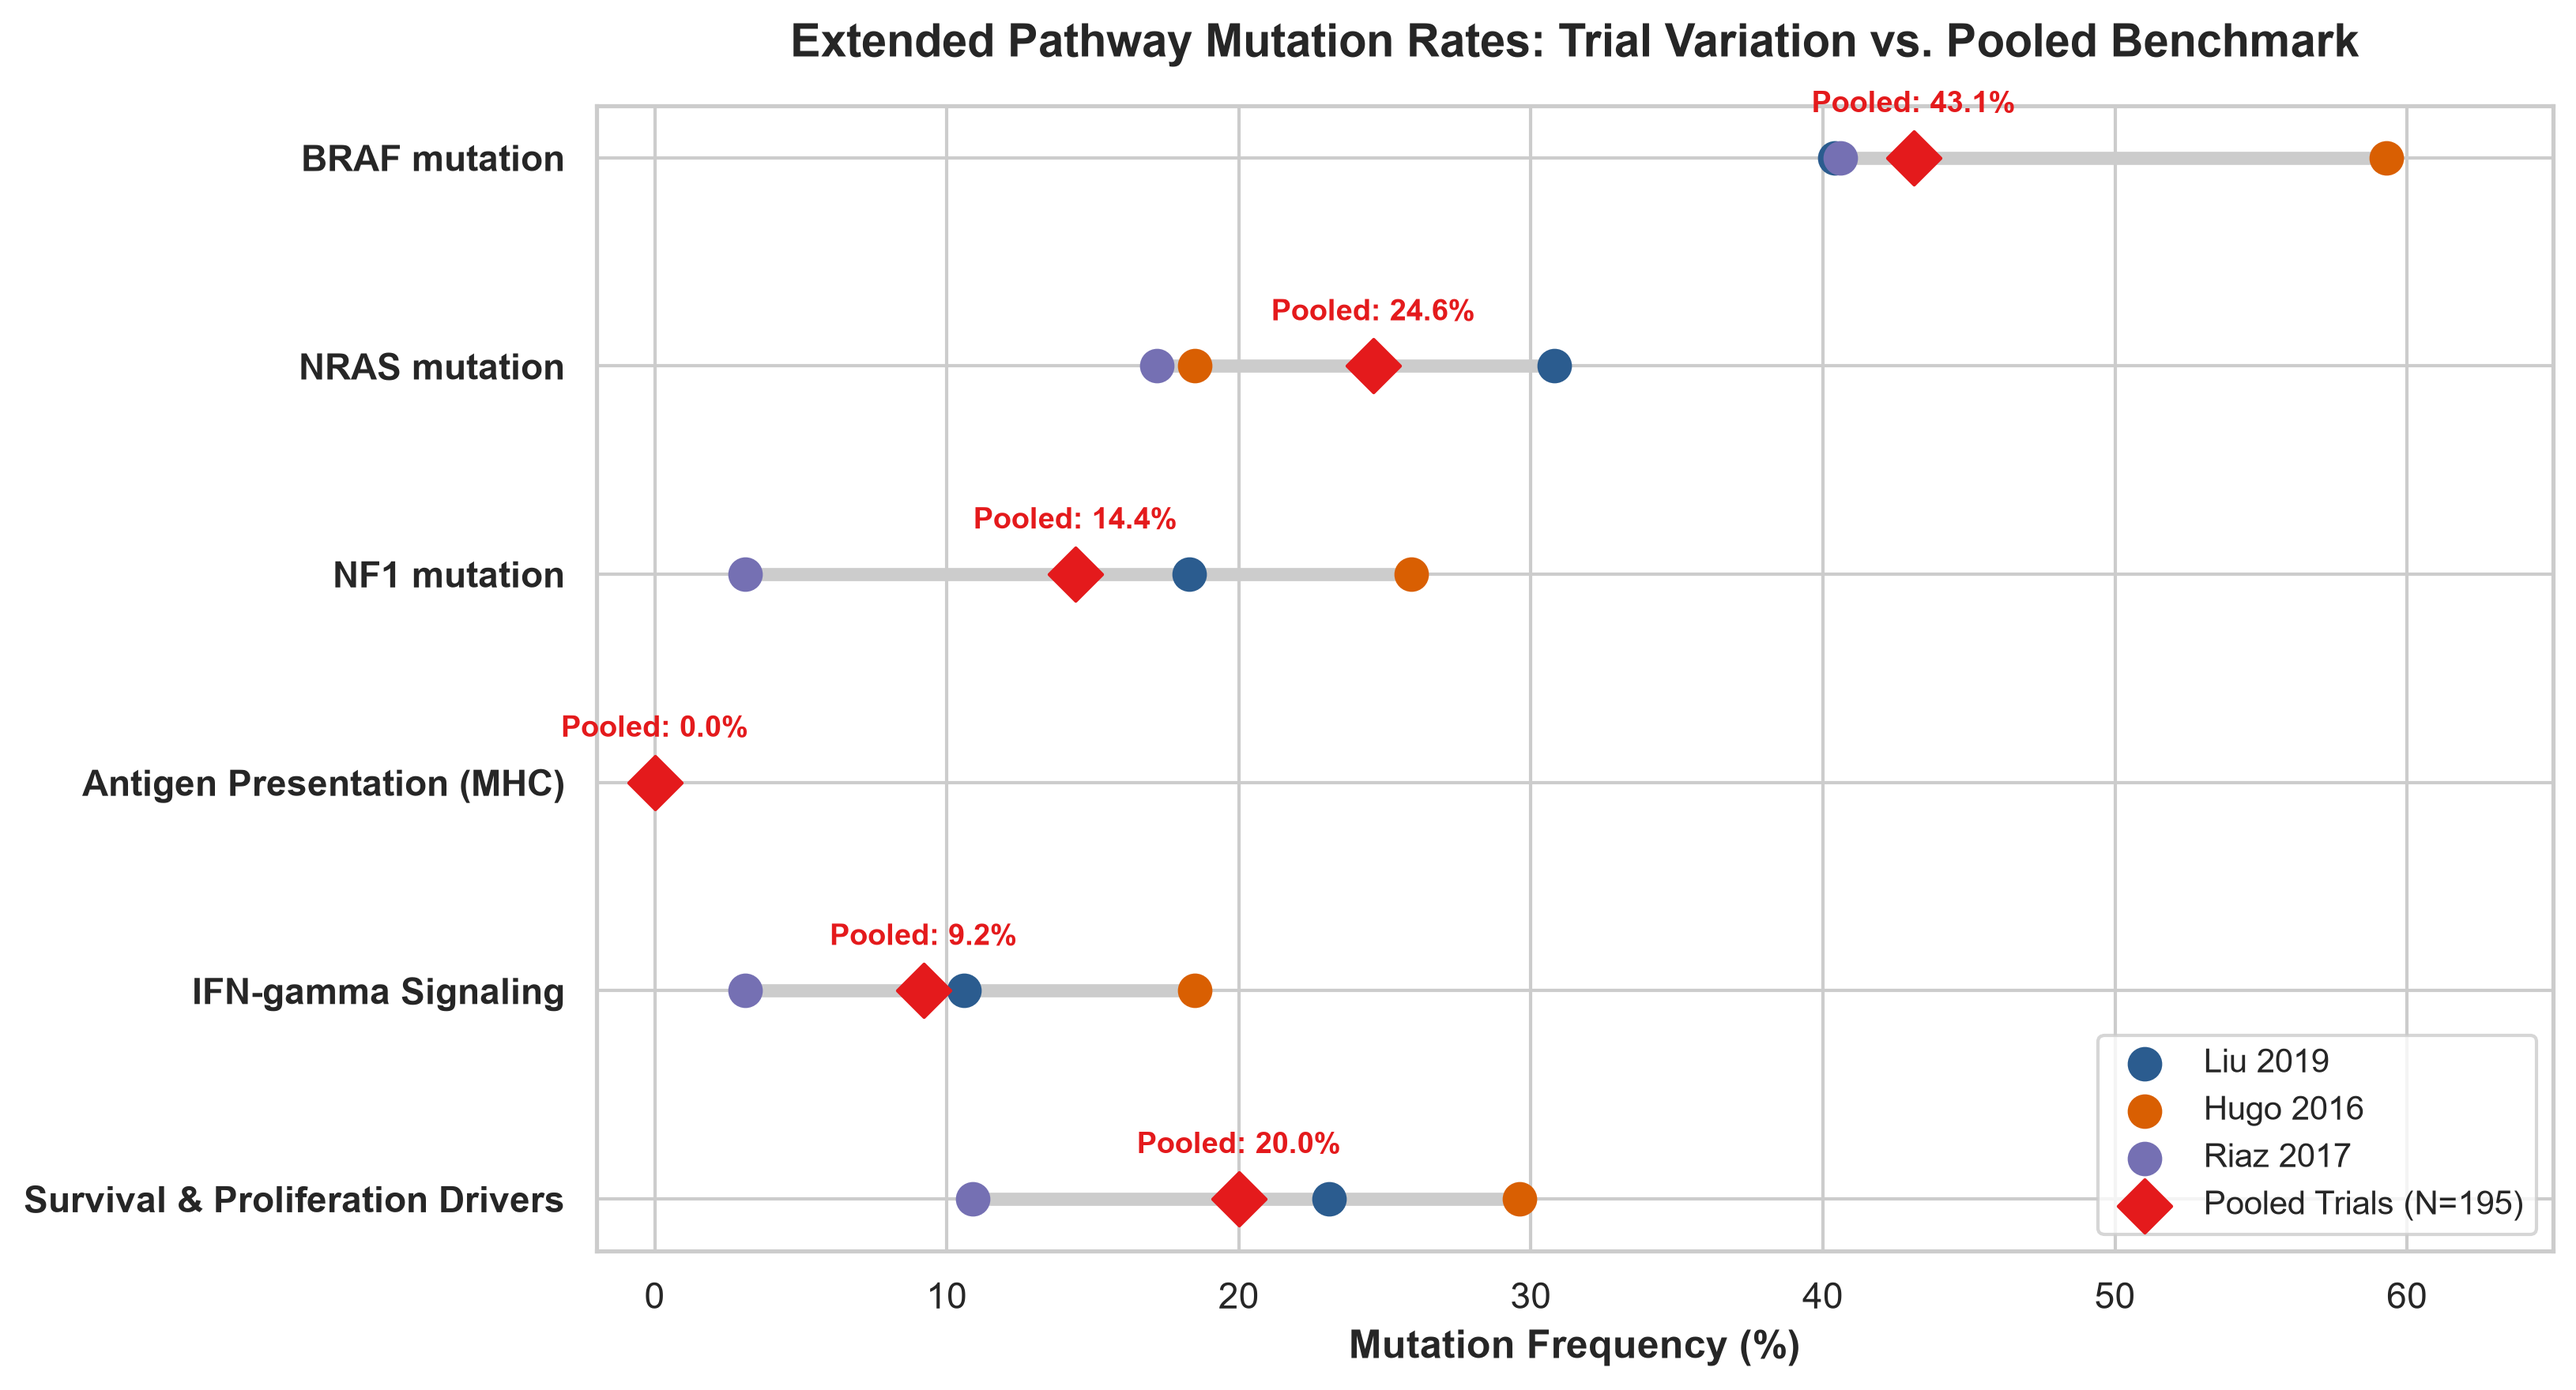
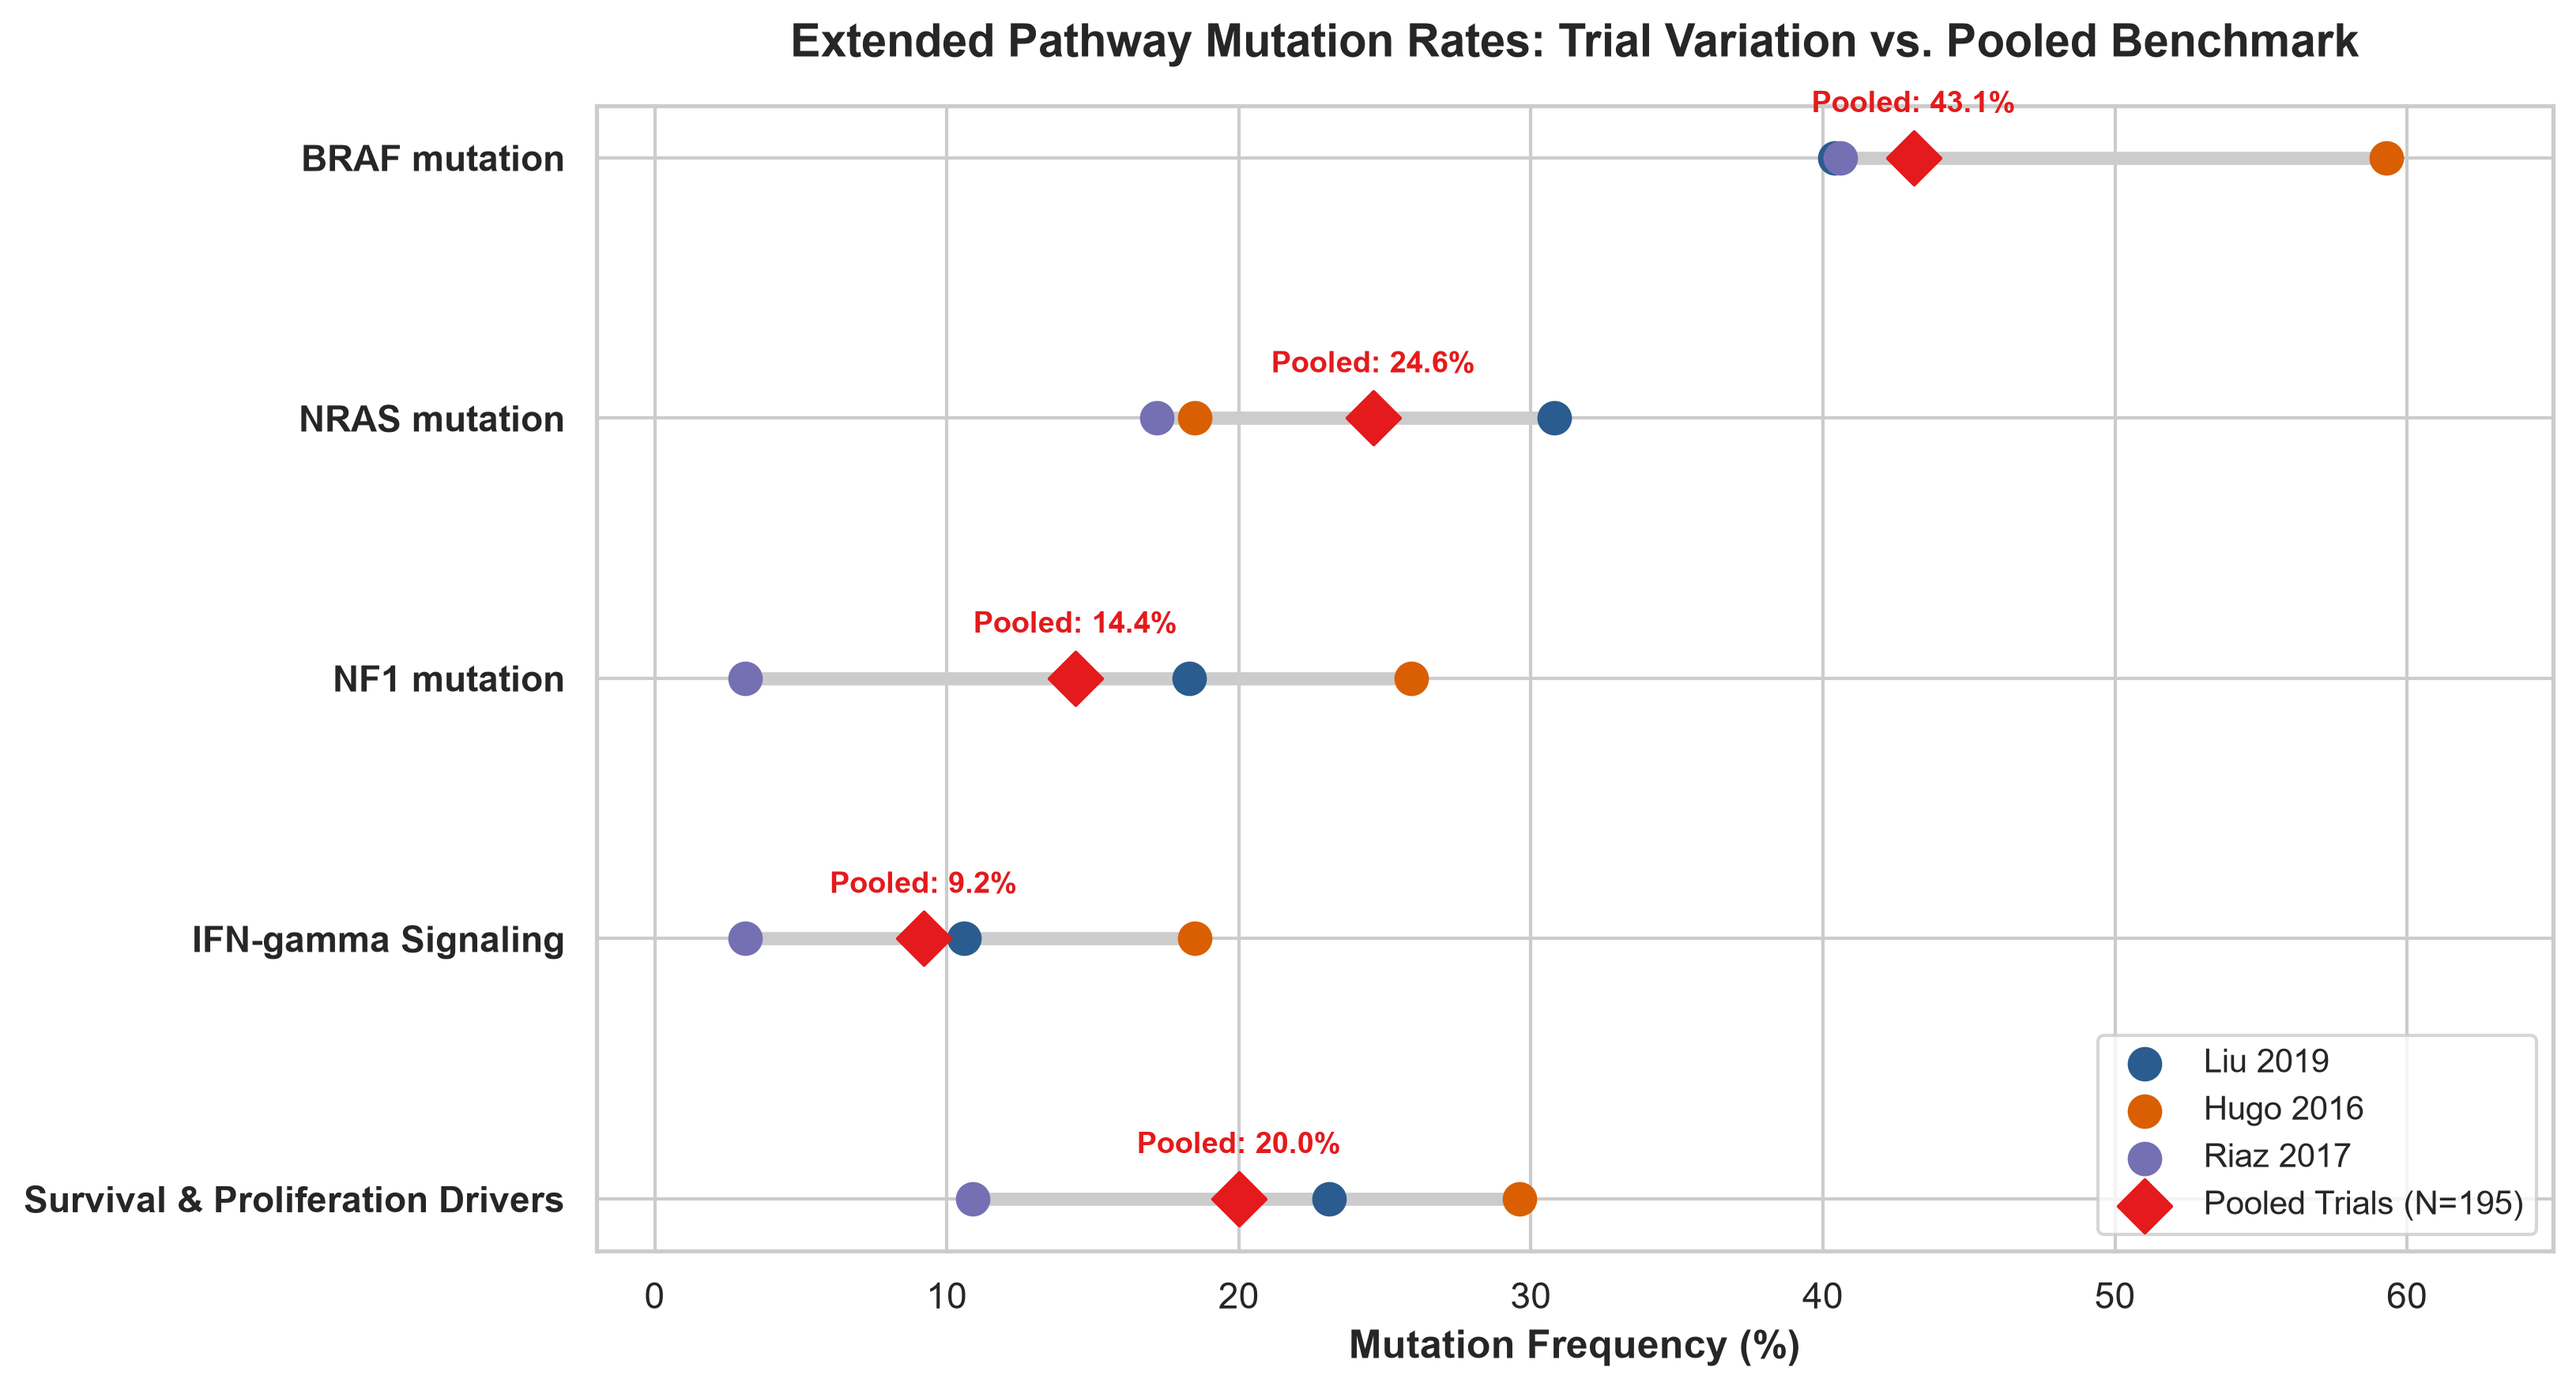
refactor(genomic): remove uninformative 0% Antigen Presentation row from pathway plots and report

diff --git a/q1-response-predictor/scripts/biomarkers/plot_extended_pathway_mutation_frequencies.py b/q1-response-predictor/scripts/biomarkers/plot_extended_pathway_mutation_frequencies.py
@@ -21,7 +21,6 @@ data = [
     {"Category": "MAPK Drivers", "Gene/Pathway": "BRAF mutation", "Liu 2019 (N=104)": 40.4, "Hugo 2016 (N=27)": 59.3, "Riaz 2017 (N=64)": 40.6, "Pooled Trials (N=195)": 43.1},
     {"Category": "MAPK Drivers", "Gene/Pathway": "NRAS mutation", "Liu 2019 (N=104)": 30.8, "Hugo 2016 (N=27)": 18.5, "Riaz 2017 (N=64)": 17.2, "Pooled Trials (N=195)": 24.6},
     {"Category": "MAPK Drivers", "Gene/Pathway": "NF1 mutation", "Liu 2019 (N=104)": 18.3, "Hugo 2016 (N=27)": 25.9, "Riaz 2017 (N=64)": 3.1, "Pooled Trials (N=195)": 14.4},
-    {"Category": "Immune Resistance", "Gene/Pathway": "Antigen Presentation (MHC)", "Liu 2019 (N=104)": 0.0, "Hugo 2016 (N=27)": 0.0, "Riaz 2017 (N=64)": 0.0, "Pooled Trials (N=195)": 0.0},
     {"Category": "Immune Resistance", "Gene/Pathway": "IFN-gamma Signaling", "Liu 2019 (N=104)": 10.6, "Hugo 2016 (N=27)": 18.5, "Riaz 2017 (N=64)": 3.1, "Pooled Trials (N=195)": 9.2},
     {"Category": "Survival & Proliferation", "Gene/Pathway": "Survival & Proliferation Drivers", "Liu 2019 (N=104)": 23.1, "Hugo 2016 (N=27)": 29.6, "Riaz 2017 (N=64)": 10.9, "Pooled Trials (N=195)": 20.0},
 ]
@@ -32,7 +31,7 @@ out_dir = BASE_DIR / "plots" / "genomic"
 out_dir.mkdir(parents=True, exist_ok=True)
 
 # --- Option 1: Horizontal Grouped Bar Chart ---
-fig, ax = plt.subplots(figsize=(12, 7), dpi=300)
+fig, ax = plt.subplots(figsize=(12, 6.5), dpi=300)
 
 y_labels = df["Gene/Pathway"].tolist()
 y_pos = np.arange(len(y_labels))
@@ -55,11 +54,6 @@ for i, cohort in enumerate(cohorts):
                         xytext=(4, 0), textcoords="offset points",
                         ha='left', va='center', fontsize=9, fontweight='bold' if "Pooled" in cohort else 'normal',
                         color='#222222')
-        else:
-            ax.annotate('0.0%',
-                        xy=(0.5, rect.get_y() + rect.get_height() / 2),
-                        xytext=(4, 0), textcoords="offset points",
-                        ha='left', va='center', fontsize=9, color='#888888', fontstyle='italic')
 
 ax.set_yticks(y_pos)
 ax.set_yticklabels(y_labels, fontweight='bold')
@@ -71,12 +65,12 @@ ax.legend(title="Cohort", frameon=True, facecolor='white', framealpha=0.9, loc='
 
 # Add subtle category separation lines & background shading
 ax.axhline(2.5, color='gray', linestyle='--', alpha=0.5)
-ax.axhline(4.5, color='gray', linestyle='--', alpha=0.5)
+ax.axhline(3.5, color='gray', linestyle='--', alpha=0.5)
 
 # Annotate Categories on left
 ax.text(-18, 1.0, "MAPK Drivers", rotation=90, va='center', ha='center', fontweight='bold', color='#333333', fontsize=11)
-ax.text(-18, 3.5, "Immune Resistance", rotation=90, va='center', ha='center', fontweight='bold', color='#333333', fontsize=11)
-ax.text(-18, 5.0, "Survival Drivers", rotation=90, va='center', ha='center', fontweight='bold', color='#333333', fontsize=11)
+ax.text(-18, 3.0, "Immune Resistance", rotation=90, va='center', ha='center', fontweight='bold', color='#333333', fontsize=11)
+ax.text(-18, 4.0, "Survival Drivers", rotation=90, va='center', ha='center', fontweight='bold', color='#333333', fontsize=11)
 
 plt.tight_layout()
 fig_path1 = out_dir / "extended_pathway_grouped_bars.png"

diff --git a/q1-response-predictor/reports/pillar-1-cohorts-and-preprocessing/cohort_characteristics_genomic.md b/q1-response-predictor/reports/pillar-1-cohorts-and-preprocessing/cohort_characteristics_genomic.md
@@ -34,8 +34,7 @@ Driver Mutation Frequencies
 *   **representative cohort features**: Genomic profiles show mutation status and burden metrics are representative.
 
 ### Extended Pathway Mutation Frequencies
-To further characterize tumor immunogenicity and mechanisms of resistance, we evaluated pre-treatment somatic mutation frequencies across three biological pathways:
-*   **Antigen Presentation**: _B2M_, _TAP1_, _TAP2_ (disrupts MHC Class I presentation).
+To further characterize tumor immunogenicity and mechanisms of resistance, we evaluated pre-treatment somatic mutation frequencies across core biological pathways:
 *   **IFN-gamma Signaling**: _JAK1_, _JAK2_, _STAT1_ (induces insensitivity to T-cell cytotoxicity).
 *   **Survival & Proliferation Drivers**: _PTEN_, _CDKN2A_, _PIK3CA_ (oncogenic drivers).
 
@@ -51,13 +50,12 @@ Extended Pathway Somatic Mutation & Pathway Frequencies
 | **BRAF mutation**                    | 40.4%              | 59.3%              | 40.6%              | **43.1%**               |
 | **NRAS mutation**                    | 30.8%              | 18.5%              | 17.2%              | **24.6%**               |
 | **NF1 mutation**                     | 18.3%              | 25.9%              | 3.1%               | **14.4%**               |
-| **Antigen Presentation (MHC)**       | 0.0%               | 0.0%               | 0.0%               | **0.0%**                |
 | **IFN-gamma Signaling**              | 10.6%              | 18.5%              | 3.1%               | **9.2%**                |
 | **Survival & Proliferation Drivers** | 23.1%              | 29.6%              | 10.9%              | **20.0%**               |
 
 </details>
 
-_Note: Pre-treatment antigen presentation mutations are completely absent in these cohorts, reinforcing that MHC-class I mutations are mostly acquired under selective pressure during checkpoint blockade therapy rather than being common baseline resistance mechanisms._
+_Note: Pre-treatment somatic non-synonymous mutations in MHC Class I machinery (B2M, TAP1, TAP2) are absent in these trial cohorts, as genetic disruption of antigen presentation is primarily an acquired resistance mechanism that emerges under checkpoint blockade pressure rather than a baseline primary resistance mechanism._
 
 ---
 
